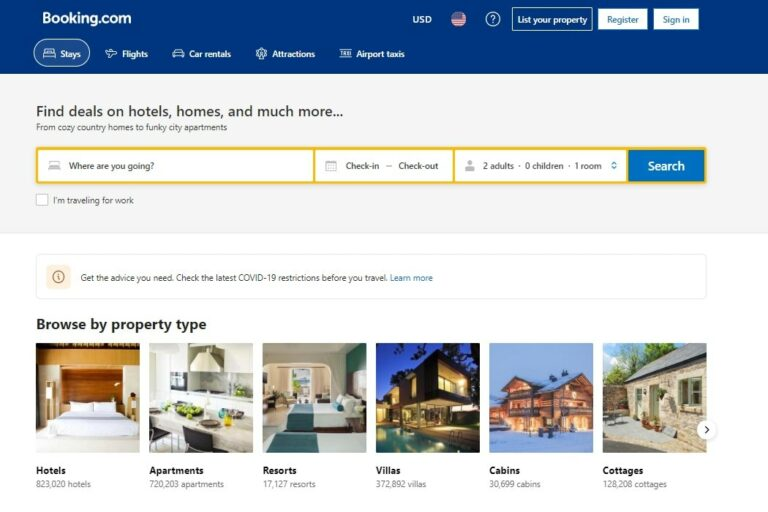
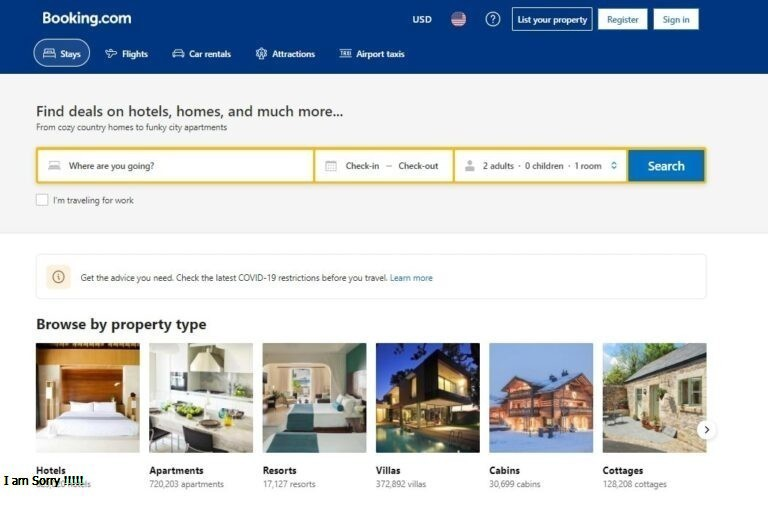
youtube fix

Changed region(s): [[0.0312, 0.2812, 0.9375, 0.375], [0.0, 0.9062, 0.125, 0.9688]]

diff --git a/index.html b/index.html
@@ -369,9 +369,8 @@
         </div>
     </main>
     <footer>
-        <video autoplay loop muted plays-inline class="clip">
-            <source src="https://youtu.be/0AugFrZPP9U?si=mPIr3vKJiMslHx4E" type="video/mp4">
-        </video>
+        <iframe width="560" height="315" src="https://www.youtube.com/embed/xo9YNxU5KUQ?si=MHgHzs5UE7F_wBHs" title="YouTube video player" frameborder="0" allow="accelerometer; autoplay; clipboard-write; encrypted-media; gyroscope; picture-in-picture; web-share"
+            referrerpolicy="strict-origin-when-cross-origin" allowfullscreen></iframe>
         <div class="let">
             <h1 class="HERO">
                 <b class="wow">LET'S</b><br> GET IN<br><b class="wow2">TOUCH</b>
